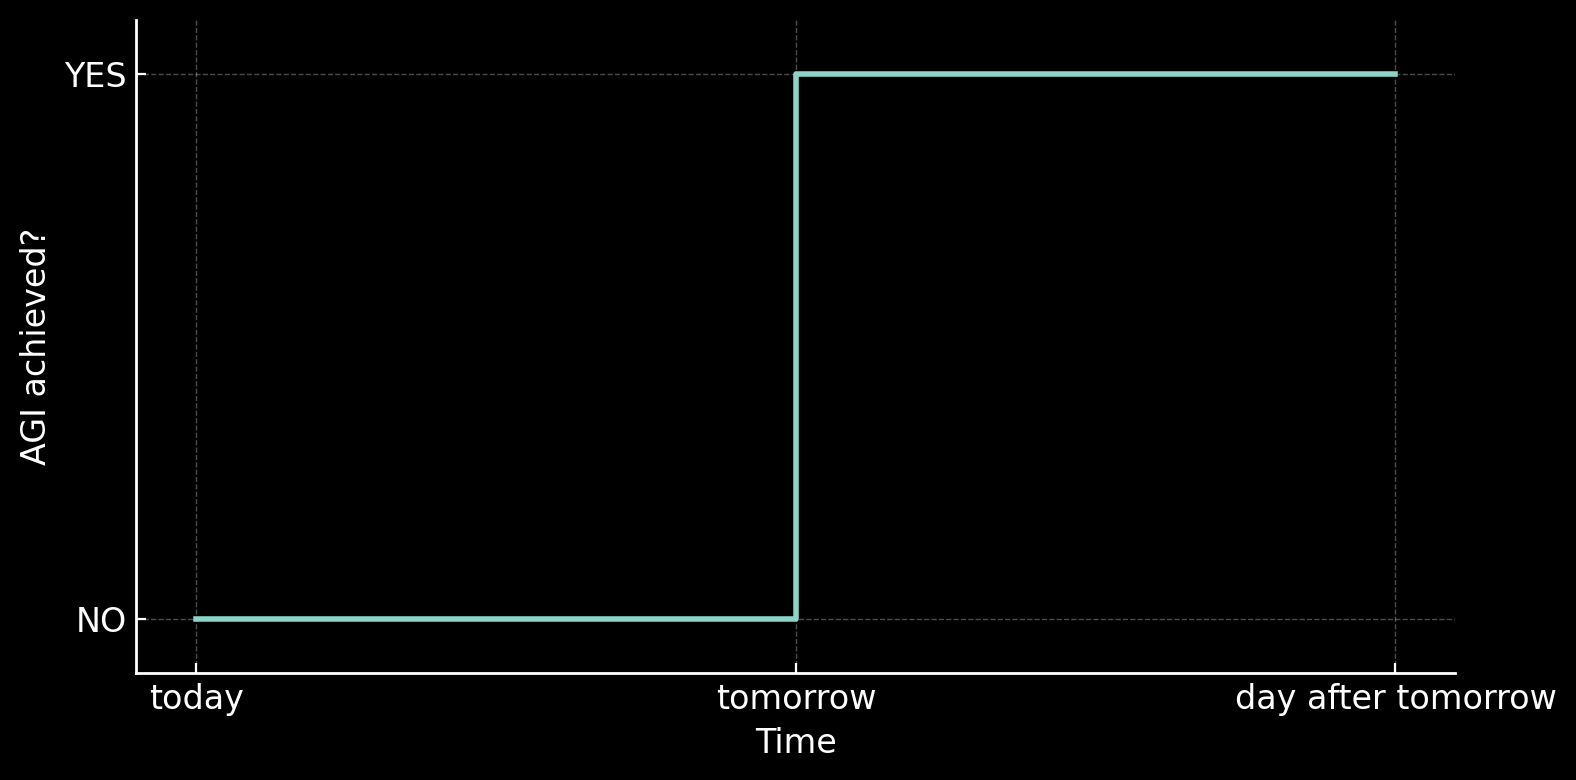
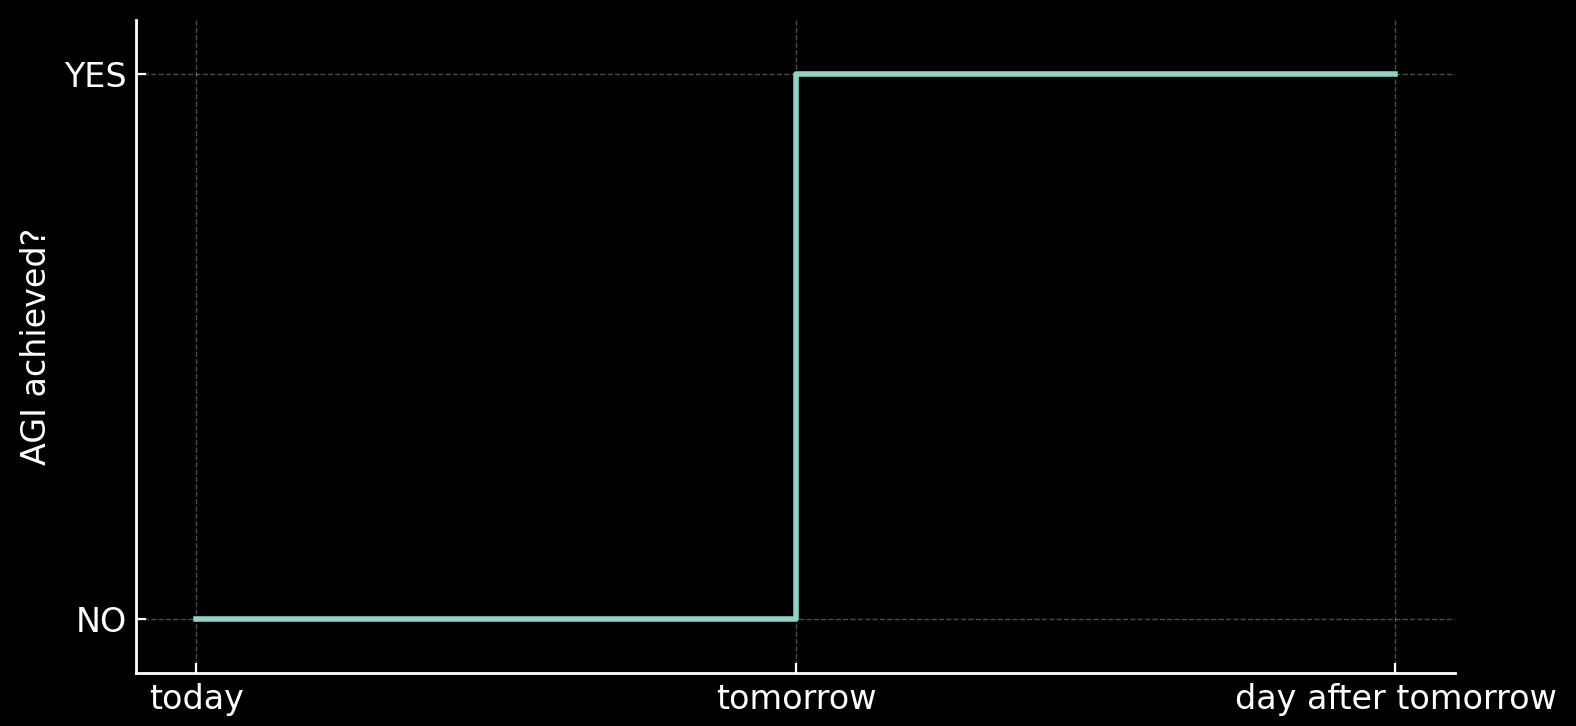
iterating...

diff --git a/src/routes/index.tsx b/src/routes/index.tsx
@@ -48,13 +48,7 @@ function Main() {
 				<section>
 					<p>
 						First of all, yes. I'm calling it.
-						<p>
-							<strong>AGI has been achieved.</strong>
-						</p>
 					</p>
-
-					<br />
-					<br />
 
 					<p>But...</p>
 
@@ -174,15 +168,21 @@ function Main() {
 						<strong>AGI has been achieved.</strong>
 					</p>
 
+					<br />
+					<br />
+
 					<p>
 						Right?
 					</p>
+
 				</section>
 
 				<section>
 					<h2>
 						So why I'm not <em>feeling the AGI</em>?
 					</h2>
+
+					<p>...you'd ask me.</p>
 
 					<p>Or, more importantly, why do I still have to work?!</p>
 
@@ -337,7 +337,7 @@ function Main() {
 						</p>
 					</blockquote> */}
 					<blockquote>
-						<p>Until AI does my bookkeeping and files my taxes I don’t give a shit about it.</p>
+						<p>Until AI does my bookkeeping and files my taxes I don't give a shit about it.</p>
 						<p>&mdash; @AtomicChild <Link href="https://twitter.com/AtomicChild/status/1839156050815070232?ref_src=twsrc%5Etfw">September 26, 2024</Link></p>
 					</blockquote>
 
@@ -361,7 +361,7 @@ function Main() {
 						</p>
 
 						<p>
-							While it makes sense for comparison, benchmarks are not a good representation of <strong>what a system can produce</strong>. Again, similarly to how one can do great on a test but fail miserably on an actual job.
+							While it makes sense for comparison, benchmarks are not a good representation of <strong>what a system can produce</strong> (they're testing models, not systems, after all). Again, similarly to how one can do great on a test but fail miserably on an actual job.
 						</p>
 
 						<p>
@@ -410,8 +410,33 @@ function Main() {
 						</p>
 
 						<p>
-							Today, any modern LLM, from any provider, has intelligence enough to use any tool, or to learn how to use any tool using a feedback loop. Analogous to how you learn to drive by just driving.
+							Today, any modern LLM, from any provider, has intelligence enough to use any tool — or to learn how to use any tool through a feedback loop. <strong>Analogous to how one learns to drive by just driving.</strong>
 						</p>
+
+						<p>
+							A very interesting example is playing games. The 3 most popular models are playing Pokémon right now (live on Twitch), with <strong>no prior instructions</strong> on how the game works, it's mechanics nor it's goals.
+						</p>
+
+						<p>
+							All of them have demonstrated to be able finish the game using nothing but their intelligence, a feedback loop and tools such as moving and taking notes — very similar to how a human would do it.
+
+						</p>
+
+						<p>More details on their respective twitch channels:</p>
+						<ol>
+							<li>
+								<Link href="https://www.twitch.tv/claudeplayspokemon">Claude plays Pokémon</Link> - the OG
+
+							</li>
+							<li>
+								<Link href="https://www.twitch.tv/gemini_plays_pokemon">Gemini plays Pokémon</Link>
+							</li>
+							<li>
+								<Link href="https://www.twitch.tv/gpt_plays_pokemon">GPT plays Pokémon</Link>
+							</li>
+						</ol>
+
+						<br />
 
 						<p>
 							When we think of biological intelligences (<em>homo sapiens</em>),
@@ -479,7 +504,7 @@ function Main() {
 									You can run powerful models on your own hardware. Today.
 								</li>
 								<li>
-									The cost to use AI falls about 10x every 12 months. 1000x cheaper in 3 years.
+									The cost to use AI falls about 10x every 12 months. It got 1000x cheaper in 3 years. <span className="text-[0.5rem] text-muted-foreground">(suck it, Moore)</span>
 								</li>
 								<li>
 									Many companies are building specialized inference hardware, leading to faster and cheaper services.
@@ -494,7 +519,7 @@ function Main() {
 						</p>
 
 						<p>
-							Considering all of this, any use cases that are not yet viable, will be very very soon.
+							Considering all that, any use cases that are not yet viable, will be very very soon.
 						</p>
 
 						<p>
@@ -536,33 +561,47 @@ function Main() {
 					</section>
 
 					<section>
-						<h2>It's happening!</h2>
+						<h2>It is happening!</h2>
 
 						<p>
-							Before you call bullshit on me, you should know that it <strong>is already happening!</strong>
+							If you're waiting for a single, dramatic "AGI moment", <s>you're ngmi</s> you'll miss the real story. <strong>AGI isn't a switch that flips — but rather a continuum process that's happening right now</strong> — everywhere, every second.
 						</p>
 
 						<p>
-							By this I mean AGI. Or that thing everyone is picturing as AGI.
-						</p>
-
-						<img src="../media/agi-bool.png" alt="boolean AGI" />
-						<img src="../media/agi-continuum.png" alt="continuum AGI" />
-
-						<p>
-							It is happening every second of every day on every country of this planet. Continuously, rather than in any single moment.
+							It's not: <img src="../media/agi-bool.png" alt="boolean AGI" className="mt-1" />
 						</p>
 
 						<p>
-							Such systems are being deployed and used every day, all around the world, by millions of people, to solve very real and very valuable problems.
+							But: <img src="../media/agi-continuum.png" alt="continuum AGI" className="mt-1" />
 						</p>
 
 						<p>
-							One of the best examples today is coding (writing software).
+							Whether I was able to convince you that current models are AGI or not, it doesn't really matter.
 						</p>
 
 						<p>
-							Coding is among the first industries to be disrupted by AI. Not because it's easy (as in would require less intelligence), but due to:
+							<strong>Every layer of every industry is getting unimaginable and unprecedented efficiency gains</strong>, and that's awesome!
+						</p>
+
+
+						{/* <p>
+							Billions of human–AI and AI–AI interactions are happening every day, quietly adding efficiency to every layer of every industry.
+						</p> */}
+
+						<p>
+							The best way to observe this effect right now is in the software industry. The <strong>energy</strong> required to develop and maintain almost any kind of software has dropped by <strong>~80% in the last two years</strong>. I'll say it again: building software is <strong>80% CHEAPER TODAY THAN IT WAS TWO YEARS AGO</strong>. That's not an exaggeration, specially for consumer software.
+						</p>
+
+						<p>
+							It doesn't matter if there is a human in the loop or not. It doesn't matter how many engineering jobs were lost or not. It doesn't matter if you directly benefit from it or not.
+						</p>
+
+						<p>
+							Just one thing matters: building software is getting much cheaper, and <strong>that's good for everybody</strong>, as that translates into more iterations, more features, more products, more services, <strong>more value</strong>. For everyone.
+						</p>
+
+						<p>
+							Coding is among the first industries to collect those gains, but not because it's easy (as in would require less intelligence), but due to:
 							<ol>
 								<li>
 									Being mostly digital, making it easy to interface existing tools to AI.
@@ -576,15 +615,64 @@ function Main() {
 							</ol>
 						</p>
 
-						<p>apps doing it</p>
-						<p>cursor_spending.png</p>
-						<p>creating interfaces to AI is a whole new industry</p>
+						<p>
+							A few examples of products driving such efficiency gains are <Link href="https://cursor.com">Cursor</Link>, <Link href="https://anthropic.com/claude-code">Claude Code</Link>, <Link href="https://openai.com/codex/">Codex</Link> and many others. All of them work in a similar fashion to what we have described so far (loop, tools, knowledge, feedback).
+						</p>
+
+						<p>
+							But it's not stopping with computer programs. <strong>Every</strong> production chain, <strong>every</strong> supply chain, <strong>every</strong> good or service being provided is already exponentially collecting those gains.
+						</p>
+
+						<p>ChatGPT, when paired with <Link href="https://openai.com/index/introducing-o3-and-o4-mini/">o3 or o4-mini</Link>, also works similarly. During it's <em>Chain of Thoughts</em>, it does way more than just reasoning. It searches the web, write and run code, zoom into images and much more. You can even plug in your own tools via <Link href="https://www.anthropic.com/news/model-context-protocol">MCP</Link>, which is another project allowing knowledge sharing among apps, and has been gaining a lot of traction! <span className="text-xs text-muted-foreground">That's why <Link href="/media/systems.mp4">o3 is a system</Link>, not just a model.</span></p>
+
+						{/* <p>cursor_spending.png</p>
+						<p>creating interfaces to AI is a whole new industry</p> */}
+
+						<p>
+							Think with me. The highest cost on virtually any industry is <strong>human labor</strong>, meaning that every second saved by using an AI system, from a simple copy/paste from/into ChatGPT up to a fully automated swarm of agents, saves energy and <strong>will eventually translate into cheaper products</strong>.
+						</p>
+
+						<br />
+
+						<blockquote>
+							"They're not coming for me though, lol"
+							<p>— my barber</p>
+						</blockquote>
+
+						<p>
+							Sometimes an image is worth a million words.
+							<img src="../media/jensen-and-the-robots.png" alt="Jensen Huang and an army of humanoid robots" className="my-1" />
+							<span className="text-muted-foreground text-sm">This is Jensen Huang, CEO of Nvidia, showing <strong>just a few of</strong> the humanoid robots being developed. They're coming.</span>
+						</p>
+
+						<p>
+							1. Think tasks, not jobs.
+						</p>
+						{/* 
+						<p>
+							This is a whole new industry: <strong>creating interfaces for AI companions</strong>. Apps like Cursor, ChatGPT, Claude, and MCP are not just products—they're the closest things we have to digital collaborators, and they're getting better every day. Google is now just a tool for companions. Tavily, EXA, Perplexity, and many more are building the connective tissue for this new world.
+						</p> */}
+						{/* 
+						<p>
+							Sam Altman recently said we should stop thinking in terms of models and start thinking in terms of <strong>systems</strong>—integrated, evolving, tool-using, feedback-driven entities. In his words: <em>"In both ChatGPT and our API, we will release GPT-5 as a system that integrates a lot of our technology, including o3."</em> (<Link href="https://x.com/sama/status/1889755723078443244">source</Link>)
+						</p> */}
+
+						<p>
+							2. Instead, it's a continuous merge—<strong>humans and AI are merging</strong>. The best description is simply: <strong>The Merge</strong> (<Link href="https://blog.samaltman.com/the-merge">read more</Link>). This cannot be stopped. Even if all research stopped today, the efficiency gains from what we already have would keep compounding. The total energy required to accomplish any task—especially with a human+companion team—is dropping <strong>fast</strong>.
+						</p>
 
 						{/* <p>
-							As we just saw, putting an LLM on a loop makes it infinitely intelligent; but we need more. <strong>We need results.</strong> We need actual products being created and distributed. Real services being provided, helping real people solve real problems.
+							We should stop worrying that "this process isn't fully automated because there's still a human in the loop." Instead, look at the total cost: how much energy does it take for a human to fulfill a task? How much for a human+companion? That number is dropping everywhere, and it's coming for every industry.
 						</p> */}
-					</section>
 
+						{/* <p>
+							<strong>It will be fine.</strong> It doesn't matter exactly how, or even if we're right about every detail. We just have to move fast, learn from mistakes, and not repeat them. If we're wrong, we adjust. Otherwise, we keep accelerating.
+						</p> */}
+
+						<p>
+							3. AGI is happening everywhere, every day, evolving alongside humankind. We are merging. What today seems like sophisticated AI, tomorrow will seem like child's play. The future is one where humans are free from boring work, where anyone can create a world-class film, song, game, or app. The value of everything trends toward zero, and that's a good thing.
+						</p>
+					</section>
 
 					<section>
 						<h2>The next step</h2>

diff --git a/src/components/CollapsiblePanel.tsx b/src/components/CollapsiblePanel.tsx
@@ -53,12 +53,12 @@ export function CollapsiblePanel({
 	const [isOpen, setIsOpen] = useState(defaultOpen);
 
 	return (
-		<div className={cn("my-8", className)}>
+		<div className={cn("my-4", className)}>
 			<div className="border border-border rounded-lg overflow-hidden bg-gray-50 dark:bg-neutral-900">
 				<button
 					type="button"
 					onClick={() => setIsOpen(!isOpen)}
-					className="w-full px-6 py-4 text-left flex items-center justify-between bg-gray-100 dark:bg-neutral-800 hover:bg-gray-200 dark:hover:bg-neutral-700 transition-colors focus:outline-none focus:ring-2 focus:ring-ring focus:ring-offset-2"
+					className="w-full px-4 py-2 text-left flex items-center justify-between bg-gray-100 dark:bg-neutral-800 hover:bg-gray-200 dark:hover:bg-neutral-700 transition-colors focus:outline-none focus:ring-2 focus:ring-ring focus:ring-offset-2"
 				>
 					<div className="flex items-center gap-3">
 						{icon && <span className="text-xl">{icon}</span>}
@@ -75,7 +75,7 @@ export function CollapsiblePanel({
 				</button>
 
 				{isOpen && (
-					<div className="px-6 py-4 bg-gray-50 dark:bg-neutral-900 border-t border-gray-200 dark:border-neutral-700">
+					<div className="p-2 bg-gray-50 dark:bg-neutral-900 border-t border-gray-200 dark:border-neutral-700">
 						{references && <ReferenceList references={references} />}
 						{children}
 					</div>
